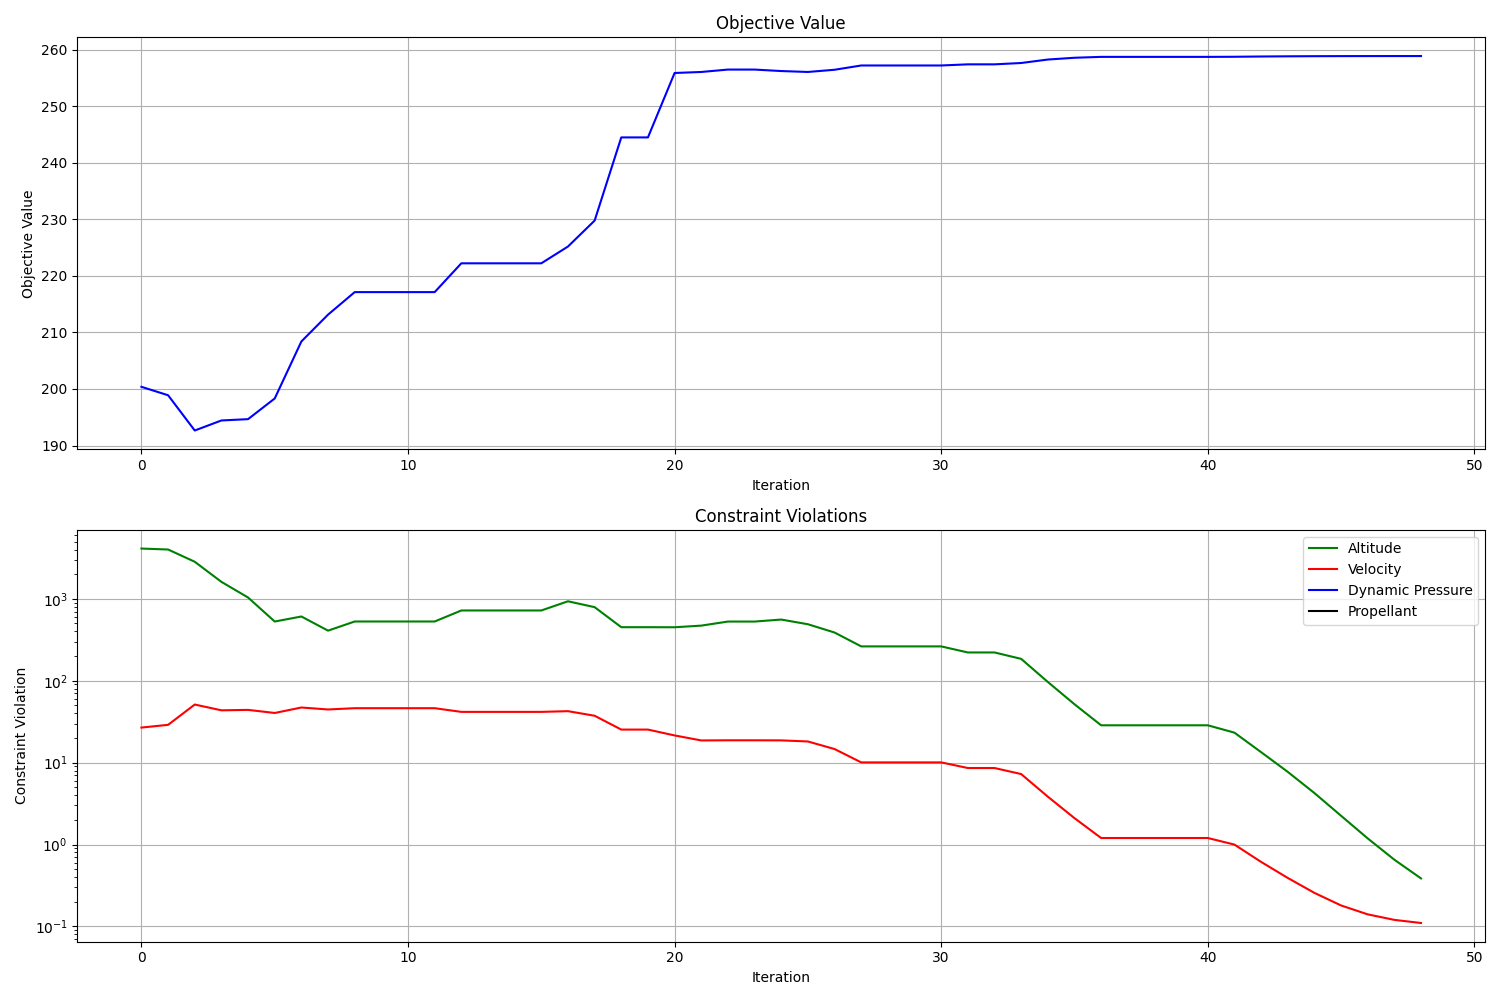
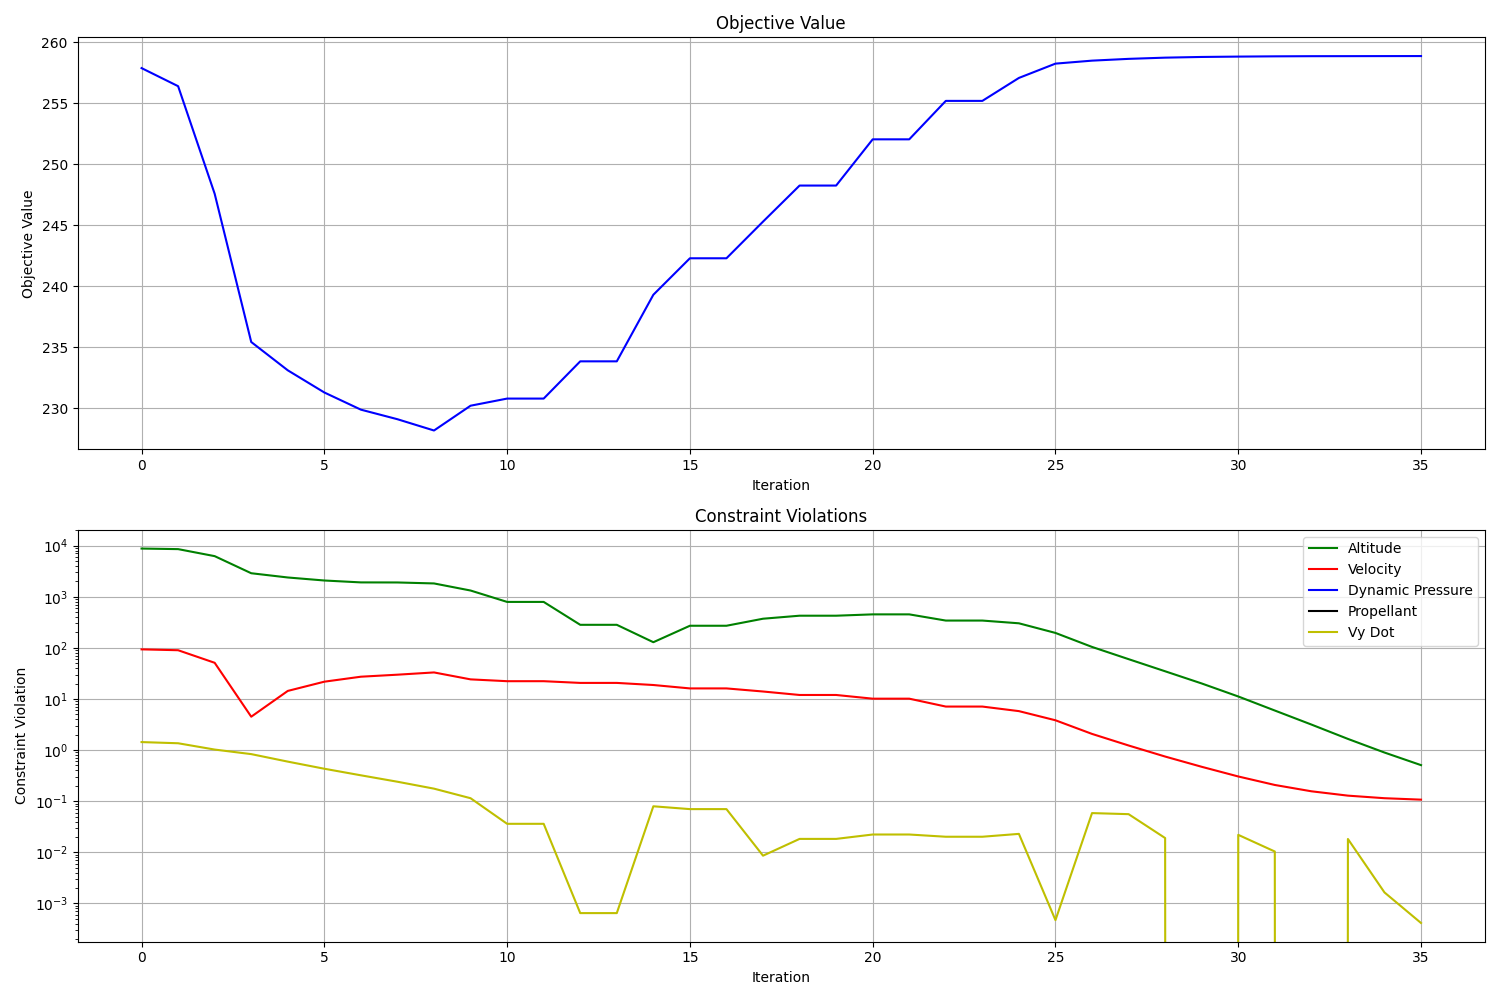
yay, now smoother

diff --git a/main_landing_burn.py b/main_landing_burn.py
@@ -90,50 +90,40 @@ def simulate(u, T_end, T_outer_engine_cutoff):
     return np.array(y_vals), np.array(vy_vals), m, np.array(dynamic_pressure_margins), np.array(mp_vals), vy_dot
 
 # Objective: minimise propellant used
-def objective(x):
+def objective(x, sim_results=None):
+    if sim_results is None:
+        sim_results = callback.run_simulation(x)
     u = x[:-2] # throttle
-    T_burn = x[-2] # burn time
-    T_outer_engine_cutoff = x[-1] # outer engine cutoff time
-    sim = simulate(u, T_burn, T_outer_engine_cutoff)
-
     # Regularisation smoother
     smoothness_penalty = abs(np.sum(np.diff(u)**2))
-
-    return (m0 - sim[2])/1000 + smoothness_penalty
+    return (m0 - sim_results[2])/1000 + smoothness_penalty
 
 # Constraints
 def constr_final_y(x):
-    u = x[:-2]
-    T_burn = x[-2]
-    T_outer_engine_cutoff = x[-1]
-    y_final = simulate(u, T_burn, T_outer_engine_cutoff)[0][-1]
+    sim_results = callback.run_simulation(x)
+    y_final = sim_results[0][-1]
     return np.array([y_final - yf_min, yf_max - y_final])
 
 def constr_final_v(x):
-    u = x[:-2]
-    T_burn = x[-2]
-    T_outer_engine_cutoff = x[-1]
-    v_final = simulate(u, T_burn, T_outer_engine_cutoff)[1][-1]
+    sim_results = callback.run_simulation(x)
+    v_final = sim_results[1][-1]
     return np.array([vf_min - v_final, vf_max + v_final])
 
 def constr_dynamic(x):
-    u = x[:-2]
-    T_burn = x[-2]
-    T_outer_engine_cutoff = x[-1]
-    return simulate(u, T_burn, T_outer_engine_cutoff)[3]  # must be >= 0
+    sim_results = callback.run_simulation(x)
+    return sim_results[3]  # must be >= 0
 
 def constr_propellant(x):
-    u = x[:-2]
-    T_burn = x[-2]
-    T_outer_engine_cutoff = x[-1]
-    mp_vals = simulate(u, T_burn, T_outer_engine_cutoff)[4]
+    sim_results = callback.run_simulation(x)
+    mp_vals = sim_results[4]
     return mp_vals  # must be >= 0
 
 def constr_vy_dot(x):
     u = x[:-2]
     T_burn = x[-2]
     T_outer_engine_cutoff = x[-1]
-    vy_dot = simulate(u, T_burn, T_outer_engine_cutoff)[5]
+    sim_results = callback.run_simulation(x)
+    vy_dot = sim_results[5]
     # Must be close to 0
     return vy_dot_margin - abs(vy_dot) # must be >= 0
 
@@ -150,33 +140,38 @@ class OptimizationCallback:
         self.final_alts = []
         self.final_vels = []
         self.min_props = []
-        self.vy_dot_violations = []
-        log_dir = 'data/reference_trajectory/landing_burn_controls/logs'
+        self.vy_dot_violations = []  # Add list to store vy_dot violations
+        self.simulation_cache = {}
+
         # Set up TensorBoard logging
+        log_dir = 'data/reference_trajectory/landing_burn_controls/logs'
         if not os.path.exists(log_dir):
             os.makedirs(log_dir)
         self.writer = SummaryWriter(log_dir)
 
+    def run_simulation(self, x):
+        u = x[:-2]
+        T_burn = x[-2]
+        T_outer_engine_cutoff = x[-1]
+        if tuple(x) not in self.simulation_cache:
+            self.simulation_cache[tuple(x)] = simulate(u, T_burn, T_outer_engine_cutoff)
+        return self.simulation_cache[tuple(x)]
+
     def __call__(self, xk, state=None):
-        u = xk[:-2]
-        T_burn = xk[-2]
-        T_outer_engine_cutoff = xk[-1]
-        # Calculate constraint violations
-        y_final = simulate(u, T_burn, T_outer_engine_cutoff)[0][-1]
-        v_final = simulate(u, T_burn, T_outer_engine_cutoff)[1][-1]
-        vy_dot = simulate(u, T_burn, T_outer_engine_cutoff)[5]
-        mps = simulate(u, T_burn, T_outer_engine_cutoff)[4]
-        min_mp = np.min(mps)
+        sim_results = self.run_simulation(xk)
+        y_final = sim_results[0][-1]
+        v_final = sim_results[1][-1]
+        min_mp = np.min(sim_results[4])
         
         y_violation = max(0, y_final - yf_min, yf_max - y_final)
         v_violation = max(0, abs(v_final) - vf_min, vf_max - abs(v_final))
-        dynamic_violations = np.minimum(constr_dynamic(xk), 0)
+        dynamic_violations = np.minimum(sim_results[3], 0)
         max_dynamic_violation = abs(np.min(dynamic_violations)) if np.any(dynamic_violations < 0) else 0
         prop_violation = max(0, -min_mp)
-        vy_dot_violation = max(0, abs(vy_dot) - vy_dot_margin)
+        vy_dot_violation = max(0, abs(sim_results[5]) - vy_dot_margin)  # Calculate vy_dot violation
+        
         # Calculate objective value
-        obj_val = objective(xk)
-        smoothness_penalty = abs(np.sum(np.diff(u)**2))
+        obj_val = objective(xk, sim_results)
         
         # Store data
         self.iterations.append(len(self.iterations))
@@ -185,26 +180,28 @@ class OptimizationCallback:
         self.vel_violations.append(v_violation)
         self.dyn_violations.append(max_dynamic_violation)
         self.prop_violations.append(prop_violation)
-        self.burn_times.append(T_burn)
+        self.burn_times.append(xk[-2])
         self.final_alts.append(y_final)
         self.final_vels.append(v_final)
         self.min_props.append(min_mp)
-        self.vy_dot_violations.append(vy_dot_violation)
-        # Log data to TensorBoard
-        self.writer.add_scalar('Objective', obj_val, len(self.iterations))
-        self.writer.add_scalar('Final Altitude Violation', y_violation, len(self.iterations))
-        self.writer.add_scalar('Final Velocity Violation', v_violation, len(self.iterations))
-        self.writer.add_scalar('Vy Dot Violation', vy_dot_violation, len(self.iterations))
-        self.writer.add_scalar('Max Dynamic Pressure Violation', max_dynamic_violation, len(self.iterations))
-        self.writer.add_scalar('Propellant Mass Violation', prop_violation, len(self.iterations))
-        self.writer.add_scalar('Burn Time', T_burn, len(self.iterations))
-        self.writer.add_scalar('Final Altitude', y_final, len(self.iterations))
-        self.writer.add_scalar('Final Velocity', v_final, len(self.iterations))
-        self.writer.add_scalar('Minimum Propellant Mass', min_mp, len(self.iterations))
-        self.writer.add_scalar('Smoothness Penalty', smoothness_penalty, len(self.iterations))
+        self.vy_dot_violations.append(vy_dot_violation)  # Store vy_dot violation
+        
+        # Log data to TensorBoard every 10 iterations
+        if len(self.iterations) % 10 == 0:
+            self.writer.add_scalar('Objective', obj_val, len(self.iterations))
+            self.writer.add_scalar('Final Altitude Violation', y_violation, len(self.iterations))
+            self.writer.add_scalar('Final Velocity Violation', v_violation, len(self.iterations))
+            self.writer.add_scalar('Max Dynamic Pressure Violation', max_dynamic_violation, len(self.iterations))
+            self.writer.add_scalar('Propellant Mass Violation', prop_violation, len(self.iterations))
+            self.writer.add_scalar('Burn Time', xk[-2], len(self.iterations))
+            self.writer.add_scalar('Final Altitude', y_final, len(self.iterations))
+            self.writer.add_scalar('Final Velocity', v_final, len(self.iterations))
+            self.writer.add_scalar('Minimum Propellant Mass', min_mp, len(self.iterations))
+            self.writer.add_scalar('Vy Dot Violation', vy_dot_violation, len(self.iterations))  # Log vy_dot violation
+        '''
         print(f"\nIteration Information:")
-        print(f"Burn time: {T_burn:.2f} s")
-        print(f"Outer engine cutoff time: {T_outer_engine_cutoff:.2f} s")
+        print(f"Burn time: {xk[-2]:.2f} s")
+        print(f"Outer engine cutoff time: {xk[-1]:.2f} s")
         print(f"Final altitude: {y_final:.3f} m")
         print(f"Final velocity: {v_final:.3f} m/s")
         print(f"Minimum propellant mass: {min_mp:.2f} kg")
@@ -213,6 +210,8 @@ class OptimizationCallback:
         print(f"Final velocity constraint violation: {v_violation:.3e} m/s")
         print(f"Maximum dynamic pressure constraint violation: {max_dynamic_violation:.2e} Pa")
         print(f"Propellant mass constraint violation: {prop_violation:.2e} kg")
+        print(f"Vy dot constraint violation: {vy_dot_violation:.3e} m/s")
+        '''
         return False
 
 def plot_optimization_history(callback):
@@ -321,10 +320,10 @@ def save_final_parameters(u_opt, T_burn_opt, T_outer_engine_cutoff_opt, filename
 # Initial guess
 u0 = np.zeros(N)
 u0[:N//3] = 0.7
-u0[N//3:2*N//3] = 0.7
-u0[2*N//3:] = 0.8
-T_burn0 = 75.0
-T_outer_engine_cutoff0 = 25.0
+u0[N//3:2*N//3] = 0.95
+u0[2*N//3:] = 0.95
+T_burn0 = 90.0
+T_outer_engine_cutoff0 = 30.0
 x0 = np.append(u0, [T_burn0, T_outer_engine_cutoff0])
 
 # Bounds for throttle (0 to 1), burn time (T_burn_min to T_burn_max), and outer engine cutoff time (T_outer_engine_cutoff_min to T_outer_engine_cutoff_max)
